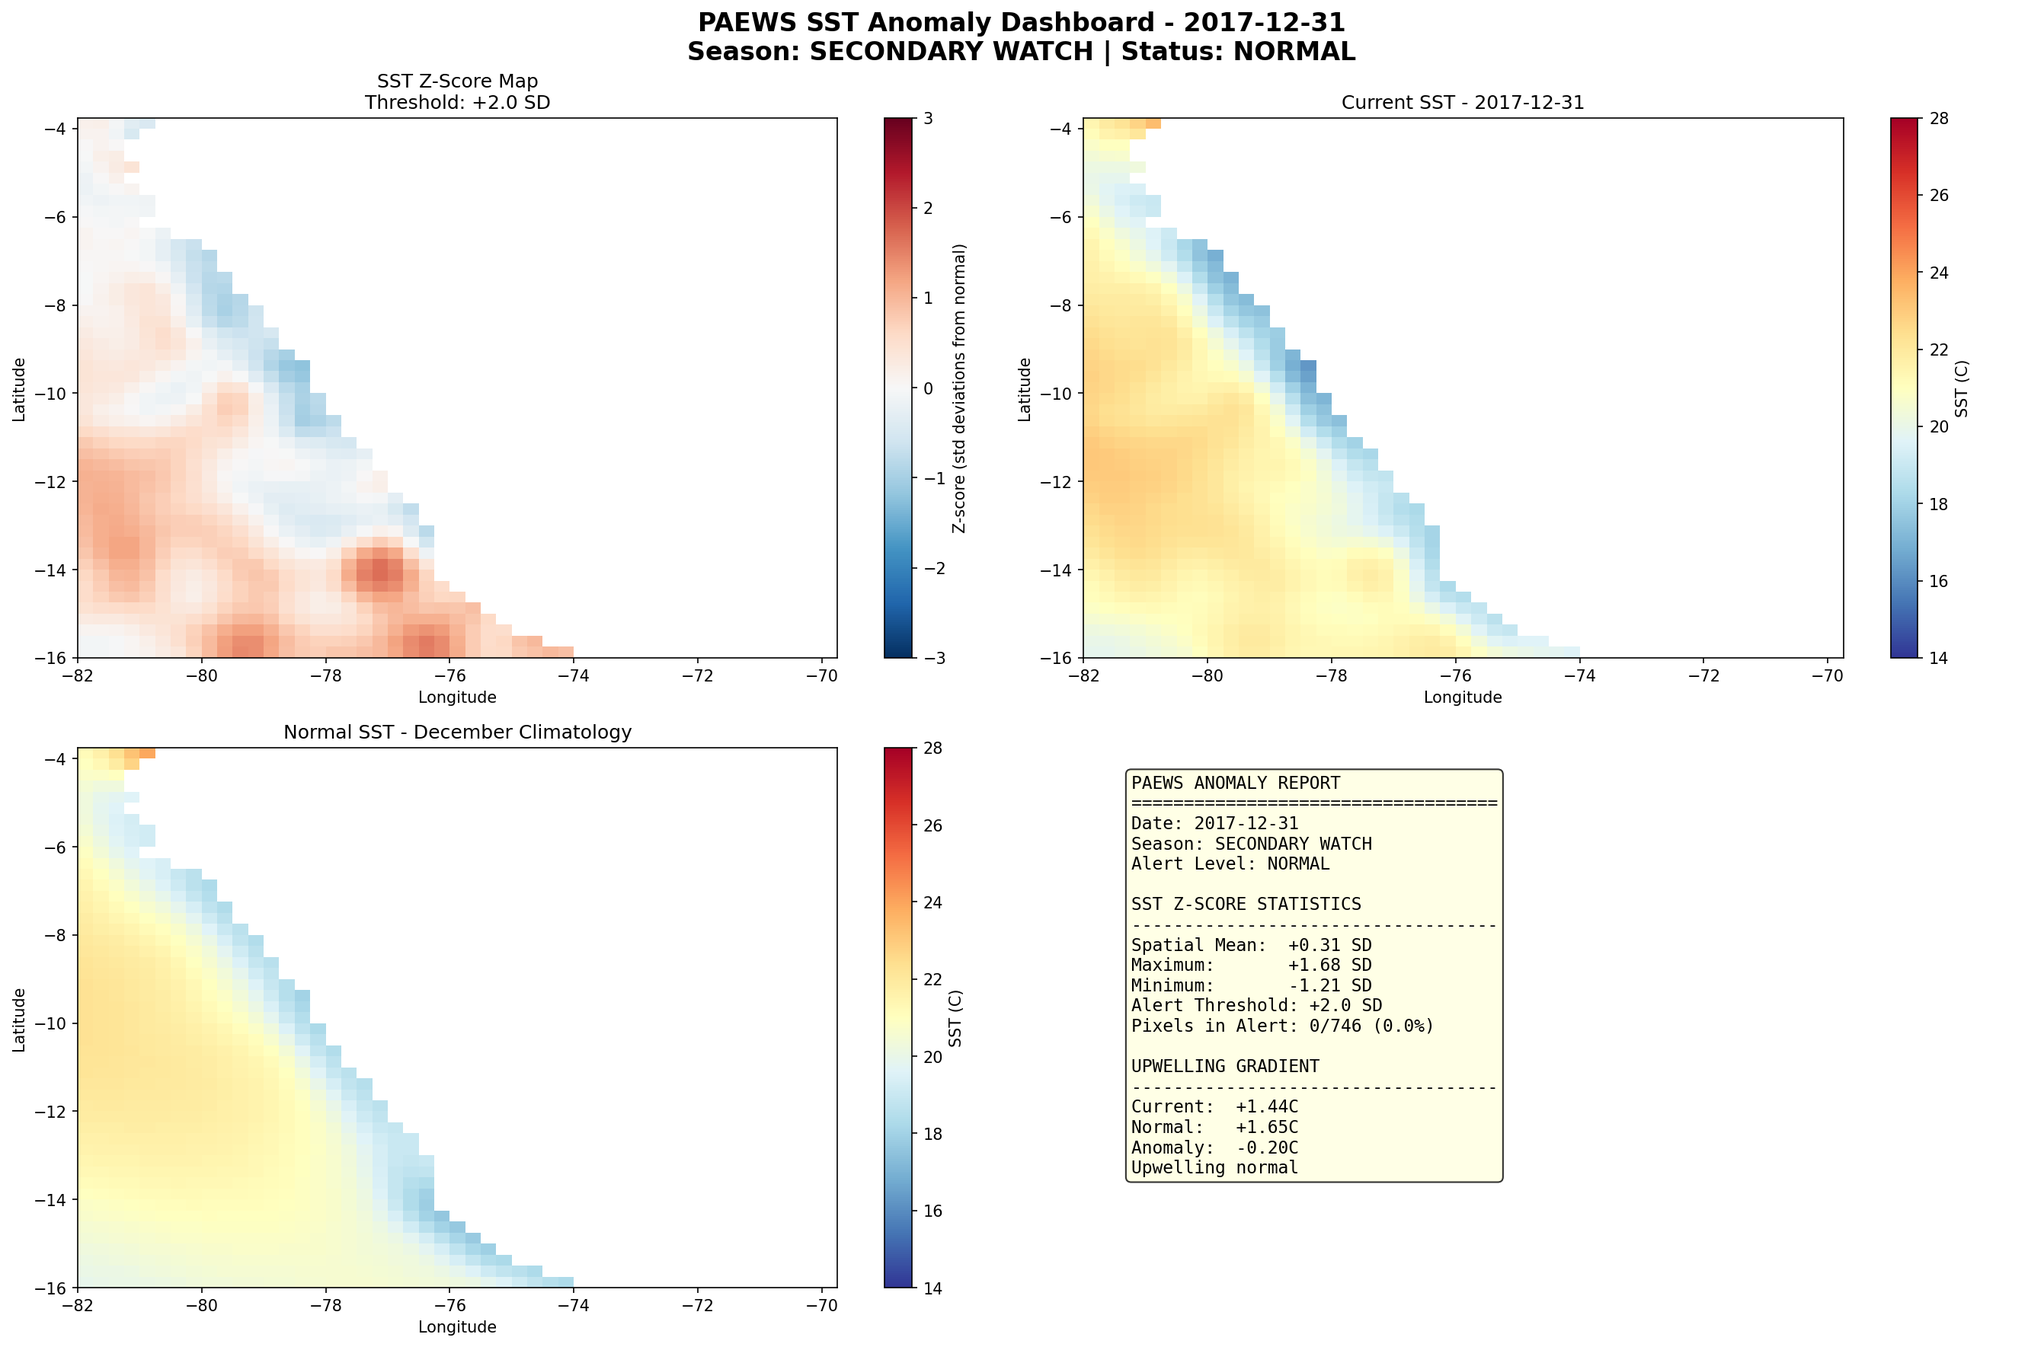
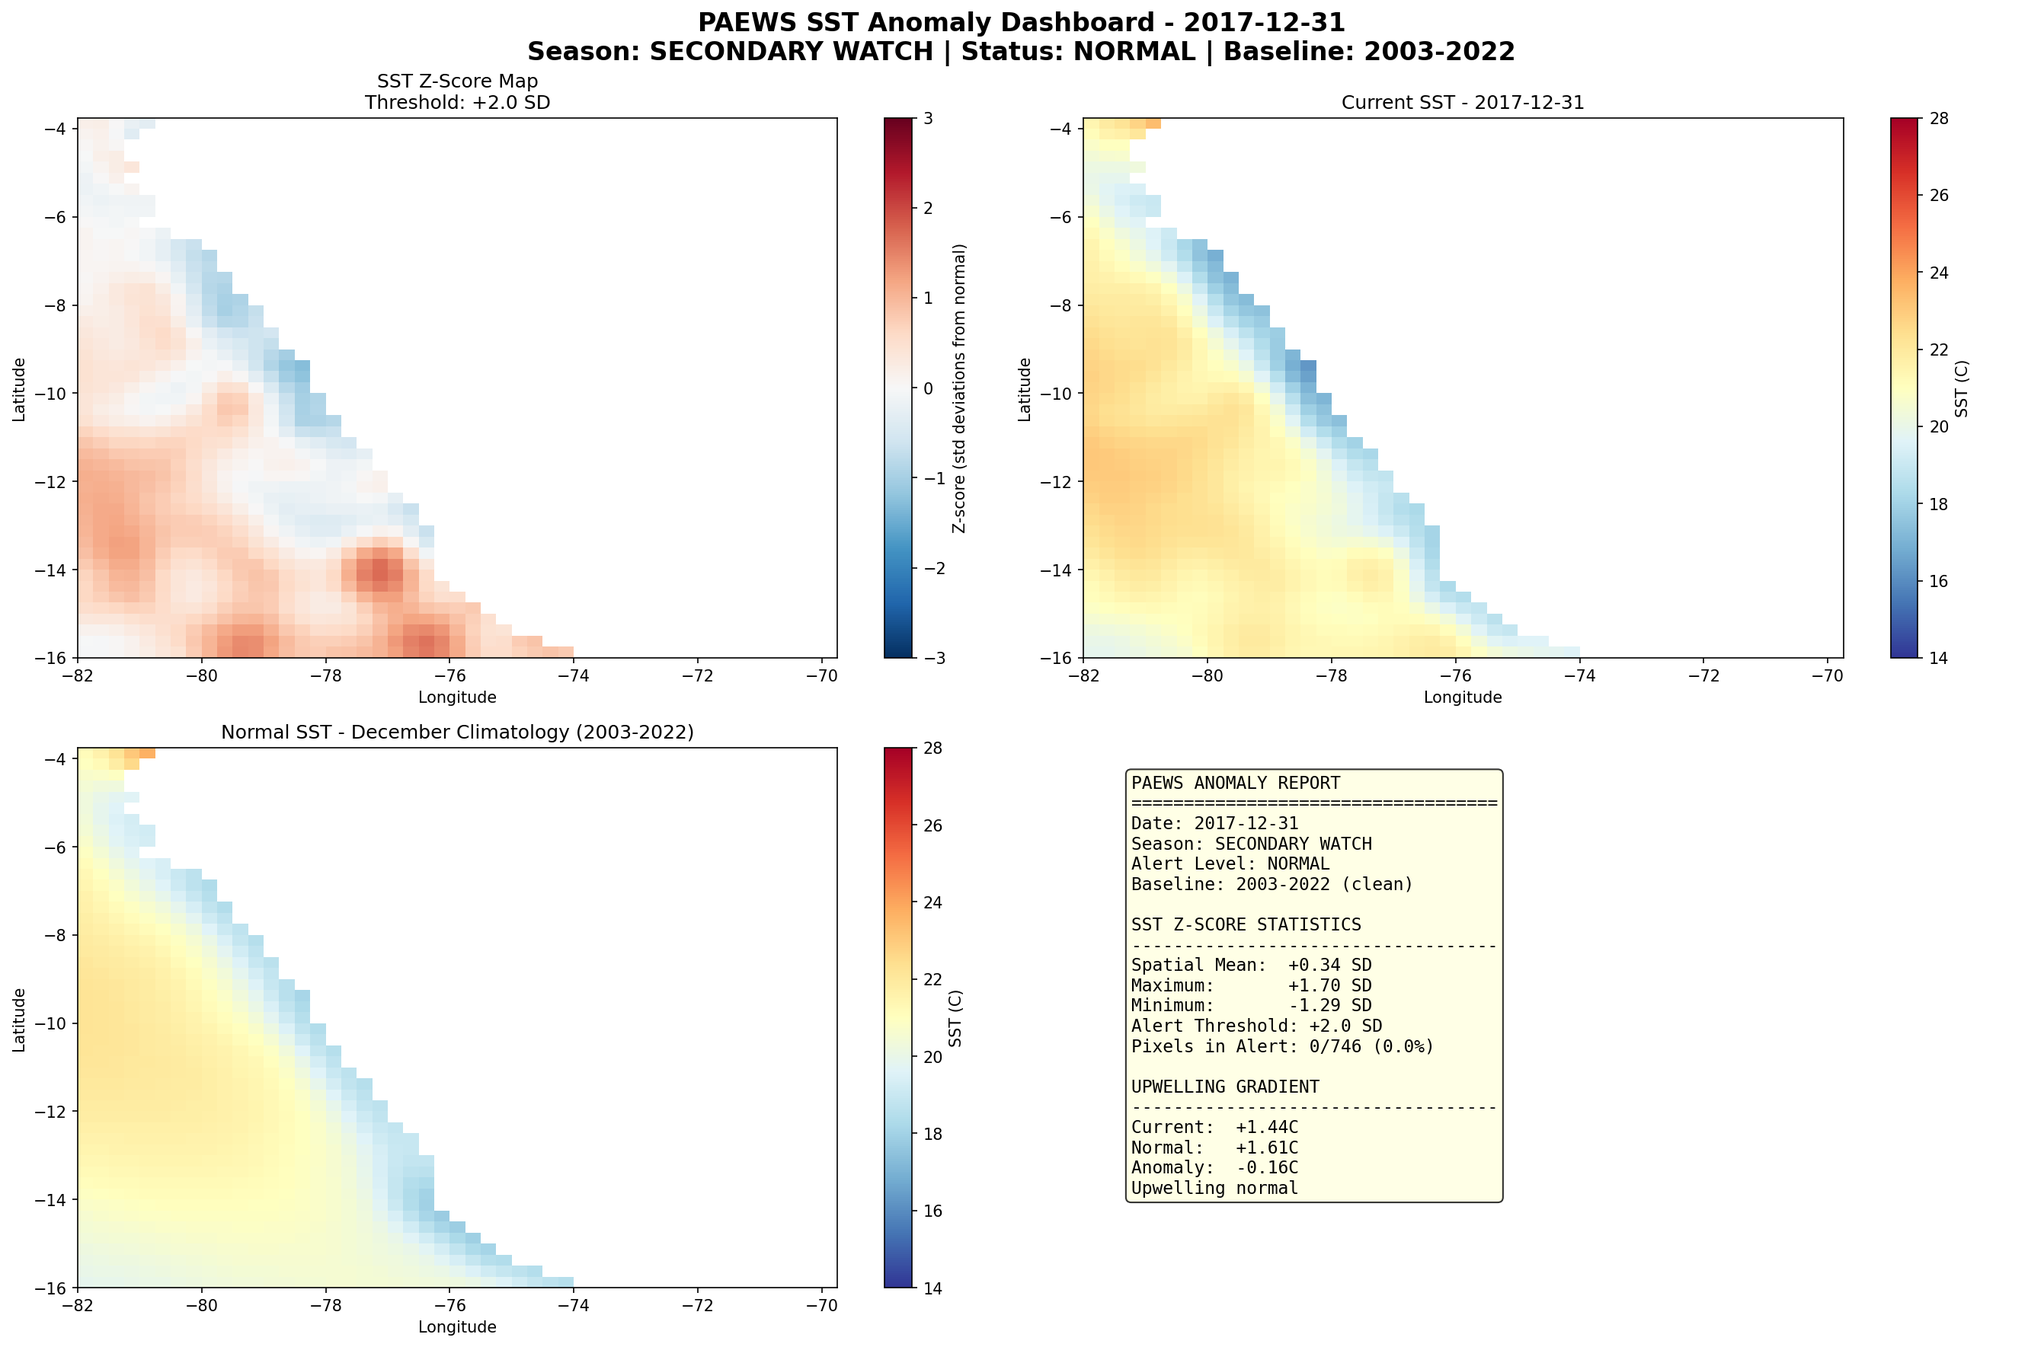
Fix baseline contamination: 2003-2022 clean baseline excluding El Nino years

Changed region(s): [[0.5259, 0.6529, 0.7425, 0.9016], [0.2475, 0.0311, 0.7425, 0.0622], [0.1237, 0.5285, 0.3403, 0.5596]]

diff --git a/scripts/compute_climatology.py b/scripts/compute_climatology.py
@@ -1,17 +1,17 @@
 """
 PAEWS Phase 2 - Step 2: Compute SST Climatology
 =================================================
-Reads all 23 years of baseline SST data and computes monthly
+Reads 20 years (2003-2022) of baseline SST data and computes monthly
 climatological statistics: mean and standard deviation for
 each pixel for each calendar month (January through December).
 
 WHAT IS A CLIMATOLOGY?
 A climatology answers: "What does this pixel normally look like
-in February?" If we have 23 Februaries of data, we average them
+in February?" If we have 20 Februaries of data, we average them
 all to get the mean, and compute the spread (standard deviation).
 
 For example, if pixel (-12.5, -77.5) has these February averages
-across 23 years: [20.1, 19.8, 21.3, 20.5, 22.1, ...]
+across 20 years: [20.1, 19.8, 21.3, 20.5, 22.1, ...]
   Mean = 20.4 C  (what "normal February" looks like here)
   Std  = 0.8 C   (how much February typically varies)
 
@@ -19,9 +19,18 @@ Then if current February reads 23.0 C at this pixel:
   Z-score = (23.0 - 20.4) / 0.8 = +3.25
 That is 3.25 standard deviations above normal -- a strong anomaly.
 
+CLEAN BASELINE (2003-2022):
+We deliberately exclude 2023+ from the baseline to prevent
+El Nino contamination. Including event years would:
+  * Inflate the monthly mean
+  * Inflate the standard deviation
+  * Reduce anomaly magnitude (making events look less extreme)
+  * Leak future information into the reference period
+This is standard practice in operational oceanographic monitoring.
+
 WHY MONTHLY (NOT WEEKLY)?
-Weekly climatologies would be noisier because you only have 23
-samples per week. Monthly gives you ~23*30 = 690 daily values
+Weekly climatologies would be noisier because you only have 20
+samples per week. Monthly gives you ~20*30 = 600 daily values
 per month per pixel, which produces much more stable statistics.
 For our seasonal alert calendar, monthly resolution is sufficient.
 We can refine to biweekly later if needed.
@@ -61,14 +70,15 @@ DATA_BASELINE = BASE_DIR / "data" / "baseline"
 DATA_PROCESSED = BASE_DIR / "data" / "processed"
 OUTPUTS = BASE_DIR / "outputs"
 
+# CLEAN BASELINE: 2003-2022 (excludes 2023+ El Nino contamination)
 BASELINE_START_YEAR = 2003
-BASELINE_END_YEAR = 2025
+BASELINE_END_YEAR = 2022
 
 
 # ============================================================
 # STEP 1: LOAD ALL BASELINE FILES INTO ONE DATASET
 # ============================================================
-# We open all 23 yearly NetCDF files and concatenate them along
+# We open all 20 yearly NetCDF files and concatenate them along
 # the time dimension. xarray makes this easy with open_mfdataset
 # ("multi-file dataset"), but we will do it manually so you can
 # see exactly what is happening at each step.
@@ -105,7 +115,6 @@ def load_all_baseline_data():
         return None
 
     # Concatenate all years along the time axis
-    # This creates one continuous time series from 2003-01-01 to 2025-12-31
     print(f"\n  Combining {len(datasets)} files ({total_days} total days)...", flush=True)
     combined = xr.concat(datasets, dim="time")
 
@@ -134,7 +143,7 @@ def load_all_baseline_data():
 #
 # IMPORTANT: We use ddof=1 in std() for the standard deviation.
 # This gives us the "sample standard deviation" (dividing by N-1
-# instead of N). This is the correct choice when our 23 years
+# instead of N). This is the correct choice when our 20 years
 # are a SAMPLE of all possible years, not the complete population.
 # It is a small correction but it is statistically proper.
 
@@ -145,7 +154,7 @@ def compute_monthly_climatology(combined_ds):
     sst = combined_ds["sst"]
 
     # Group by calendar month and compute statistics
-    # This is the key operation -- it takes ~8400 daily maps and
+    # This is the key operation -- it takes ~7300 daily maps and
     # reduces them to 12 monthly statistics maps
     print("  Computing monthly means...", flush=True)
     monthly_mean = sst.groupby("time.month").mean(dim="time")
@@ -179,7 +188,7 @@ def compute_monthly_climatology(combined_ds):
 # ============================================================
 # We save the climatology as a single NetCDF file with three
 # variables. This file is small (~50 KB) because it only has
-# 12 time steps (months) instead of 8400 (days).
+# 12 time steps (months) instead of 7300 (days).
 #
 # This is the file that the anomaly detector will load to
 # compare current conditions against.
@@ -201,6 +210,7 @@ def save_climatology(monthly_mean, monthly_std, monthly_count):
             "title": "PAEWS SST Monthly Climatology",
             "description": "Monthly mean and standard deviation of SST from NOAA OISST",
             "baseline_period": f"{BASELINE_START_YEAR}-{BASELINE_END_YEAR}",
+            "baseline_note": "Clean baseline excluding 2023+ El Nino event years",
             "source": "ncdcOisst21Agg_LonPM180 via ERDDAP",
             "created_by": "PAEWS compute_climatology.py",
         }
@@ -242,7 +252,7 @@ def plot_climatology(clim_ds):
     fig, axes = plt.subplots(3, 4, figsize=(20, 15))
     fig.suptitle(
         f"PAEWS SST Monthly Climatology ({BASELINE_START_YEAR}-{BASELINE_END_YEAR})\n"
-        f"NOAA OISST - Peru Coast",
+        f"NOAA OISST - Peru Coast (clean baseline, excludes 2023+ El Nino)",
         fontsize=16, fontweight="bold"
     )
 
@@ -278,8 +288,6 @@ def plot_climatology(clim_ds):
 # ============================================================
 # STEP 5: COMPUTE AND PLOT THE COASTAL-OFFSHORE SST GRADIENT
 # ============================================================
-# This is the spatial analysis that leverages your GIS skills.
-#
 # Upwelling strength shows up as a DIFFERENCE between cold
 # nearshore water and warm offshore water. We compute this
 # gradient for each month.
@@ -291,10 +299,6 @@ def plot_climatology(clim_ds):
 # A strong gradient (e.g., offshore 4-6C warmer than nearshore)
 # means upwelling is active. When the gradient weakens toward
 # zero, upwelling is failing -- this is an anomaly signal.
-#
-# In Phase 2 anomaly detection, we will compute this gradient
-# for current data and compare it against the climatological
-# gradient. For now we just compute and visualize the baseline.
 
 def compute_gradient_climatology(clim_ds):
     """Compute the coastal-offshore SST gradient for each month."""
@@ -303,14 +307,11 @@ def compute_gradient_climatology(clim_ds):
     sst_mean = clim_ds["sst_mean"]
 
     # Define nearshore and offshore zones
-    # Nearshore: within ~50km of coast (roughly lon > -78 for central Peru)
-    # Offshore: 100-200km from coast (roughly lon < -80)
     nearshore = sst_mean.sel(longitude=slice(-78, -70)).mean(dim=["latitude", "longitude"])
     offshore = sst_mean.sel(longitude=slice(-82, -80)).mean(dim=["latitude", "longitude"])
 
     # Gradient = offshore minus nearshore
     # Positive means offshore is warmer (normal upwelling)
-    # Near zero means upwelling has collapsed
     gradient = offshore - nearshore
 
     month_names = [
@@ -377,7 +378,7 @@ def compute_gradient_climatology(clim_ds):
 if __name__ == "__main__":
     print("=" * 55, flush=True)
     print("PAEWS Climatology Calculator", flush=True)
-    print(f"Baseline: {BASELINE_START_YEAR} to {BASELINE_END_YEAR}", flush=True)
+    print(f"Baseline: {BASELINE_START_YEAR} to {BASELINE_END_YEAR} (clean, excludes El Nino)", flush=True)
     print("=" * 55, flush=True)
 
     # Step 1: Load all baseline data

diff --git a/scripts/baseline_builder.py b/scripts/baseline_builder.py
@@ -1,7 +1,7 @@
 """
 PAEWS Phase 2 - Step 1: SST Baseline Builder
 =============================================
-Downloads 22 years (2003-2025) of daily SST data from NOAA OISST,
+Downloads 20 years (2003-2022) of daily SST data from NOAA OISST,
 one year at a time, and saves each year as a separate NetCDF file.
 
 WHY WE NEED THIS:
@@ -13,21 +13,37 @@ of February data to compute the average and standard deviation.
 This is called a "climatological baseline" -- the historical
 reference that all future measurements are compared against.
 
+BASELINE PERIOD RATIONALE (2003-2022):
+We exclude 2023+ from the baseline to prevent El Nino contamination.
+Including event years in the baseline inflates the mean and std,
+which dampens anomaly magnitude and makes events look less extreme.
+This is a standard practice in operational climatology -- the baseline
+must be a "clean" reference period representing normal conditions.
+
+2003-2022 gives us 20 years, which is robust for ocean monitoring
+statistics (Hobday et al. 2016). The WMO recommends 30 years for
+climate normals, but 20 is standard for satellite-era ocean products
+where sensor records are shorter.
+
 WHY YEAR BY YEAR:
-The full 22-year daily dataset is too large to download in one
+The full 20-year daily dataset is too large to download in one
 request -- the ERDDAP server would time out. So we break it into
 annual chunks. Each year of daily SST for our Peru box is about
 300-400 KB (small because OISST is 0.25 degree resolution).
 
-IMPORTANT: This script will take 10-20 minutes to run because
-it makes 23 separate HTTP requests with pauses between them
+IMPORTANT: This script will take 10-15 minutes to run because
+it makes 20 separate HTTP requests with pauses between them
 to be polite to the NOAA server. Do not interrupt it.
 
-After this finishes, you will have 23 files:
+After this finishes, you will have 20 files:
   data/baseline/sst_2003.nc
   data/baseline/sst_2004.nc
   ...
-  data/baseline/sst_2025.nc
+  data/baseline/sst_2022.nc
+
+Note: If you previously downloaded 2023-2025 files, they will
+remain on disk but will NOT be used by compute_climatology.py.
+You can keep them for backtesting purposes.
 
 Next step: compute_climatology.py will read all these files
 and compute monthly means and standard deviations.
@@ -62,19 +78,16 @@ SST_SERVER = "https://coastwatch.pfeg.noaa.gov"
 SST_DATASET = "ncdcOisst21Agg_LonPM180"
 SST_VARIABLE = "sst"
 
-# Baseline period: 2003 to 2025
+# Baseline period: 2003 to 2022 (CLEAN -- excludes 2023+ El Nino)
 # We start at 2003 to match MODIS Aqua chlorophyll availability.
-# This gives us 23 years of data -- more than enough for robust
-# climatological statistics. The WMO recommends 30 years for
-# climate normals, but for ocean monitoring 20+ is standard
-# practice (Hobday et al. 2016 used ~30 years where available).
+# We end at 2022 to exclude the 2023 El Nino event and its
+# aftermath from the baseline. This prevents future information
+# leakage and keeps the reference period scientifically clean.
+# 20 years is robust for satellite-era ocean monitoring statistics.
 BASELINE_START_YEAR = 2003
-BASELINE_END_YEAR = 2025
+BASELINE_END_YEAR = 2022
 
 # Pause between downloads (seconds) -- be polite to the server.
-# ERDDAP servers are free public resources. Hammering them with
-# rapid requests can get your IP temporarily blocked. A 3-second
-# pause between annual downloads is courteous and safe.
 PAUSE_BETWEEN_DOWNLOADS = 3
 
 
@@ -130,7 +143,6 @@ def download_sst_year(year, server_max_date=None):
 
     # Skip if already downloaded (allows resuming interrupted runs)
     if outfile.exists():
-        # Verify the file is valid by trying to open it
         try:
             ds = xr.open_dataset(outfile)
             n_days = ds.dims.get("time", ds.sizes.get("time", 0))
@@ -141,7 +153,6 @@ def download_sst_year(year, server_max_date=None):
             print(f"  {year}: Existing file is corrupted - re-downloading", flush=True)
 
     # Build ERDDAP URL
-    # OISST uses T12:00:00Z timestamps (noon UTC)
     url = (
         f"{SST_SERVER}/erddap/griddap/{SST_DATASET}.nc"
         f"?{SST_VARIABLE}[({start_date}T12:00:00Z):1:({stop_date}T12:00:00Z)]"
@@ -162,7 +173,6 @@ def download_sst_year(year, server_max_date=None):
     if r.status_code == 200:
         outfile.write_bytes(r.content)
         size_kb = len(r.content) / 1024
-        # Verify the downloaded file
         try:
             ds = xr.open_dataset(outfile)
             n_days = ds.dims.get("time", ds.sizes.get("time", 0))
@@ -188,13 +198,9 @@ if __name__ == "__main__":
     print(f"Dataset: {SST_DATASET}", flush=True)
     print("=" * 55, flush=True)
 
-    # Create output directory
     DATA_BASELINE.mkdir(parents=True, exist_ok=True)
-
-    # Check server availability
     t_min, t_max = get_sst_time_range()
 
-    # Track results
     years = list(range(BASELINE_START_YEAR, BASELINE_END_YEAR + 1))
     total = len(years)
     success = 0
@@ -210,11 +216,9 @@ if __name__ == "__main__":
         else:
             failed.append(year)
 
-        # Pause between downloads (skip after last one)
         if i < total - 1:
             time.sleep(PAUSE_BETWEEN_DOWNLOADS)
 
-    # Summary
     print("\n" + "=" * 55, flush=True)
     print("BASELINE DOWNLOAD SUMMARY", flush=True)
     print(f"  Successful: {success}/{total} years", flush=True)
@@ -224,7 +228,6 @@ if __name__ == "__main__":
     else:
         print("  All years downloaded successfully!", flush=True)
 
-    # List what we have
     print(f"\nFiles in {DATA_BASELINE}:", flush=True)
     for f in sorted(DATA_BASELINE.glob("sst_*.nc")):
         size_kb = f.stat().st_size / 1024

diff --git a/scripts/anomaly_detector.py b/scripts/anomaly_detector.py
@@ -20,6 +20,11 @@ BAD for anchovies (suppressed upwelling, reduced nutrients).
 NEGATIVE Z-scores mean COLDER than normal (enhanced upwelling,
 usually good for productivity).
 
+BASELINE REFERENCE:
+Z-scores are computed against a CLEAN 2003-2022 baseline that
+excludes the 2023 El Nino and subsequent years. This prevents
+event contamination from dampening anomaly signals.
+
 ALERT THRESHOLDS (from our seasonal calendar):
   Feb-Mar (MAXIMUM ALERT):   flag at Z >= +1.5
   Apr-Jul (ACTIVE SEASON):   flag at Z >= +2.0
@@ -31,9 +36,8 @@ This script can run on:
   2. Any historical year (for backtesting - e.g., 2023)
 
 OUTPUT:
-  outputs/sst_anomaly_map.png      - spatial Z-score map
-  outputs/sst_anomaly_summary.png  - dashboard with map + gradient + stats
-  data/processed/sst_anomaly.nc    - Z-score data as NetCDF
+  outputs/sst_anomaly_dashboard.png      - dashboard with map + gradient + stats
+  data/processed/sst_anomaly.nc          - Z-score data as NetCDF
 
 Usage (current data):
   & C:/Users/josep/miniconda3/Scripts/conda.exe run -n geosentinel python c:/Users/josep/Documents/paews/scripts/anomaly_detector.py
@@ -112,7 +116,8 @@ def load_climatology():
         print("  Run compute_climatology.py first.", flush=True)
         return None
     clim = xr.open_dataset(clim_path)
-    print(f"  Loaded climatology: {clim_path.name}", flush=True)
+    baseline = clim.attrs.get("baseline_period", "unknown")
+    print(f"  Loaded climatology: {clim_path.name} (baseline: {baseline})", flush=True)
     return clim
 
 
@@ -173,7 +178,6 @@ def compute_zscore(sst_ds, clim_ds):
     months = sst.time.dt.month
 
     # Look up the climatological mean and std for each time step's month
-    # xarray's .sel() with the month coordinate does this elegantly
     clim_mean = clim_ds["sst_mean"].sel(month=months)
     clim_std = clim_ds["sst_std"].sel(month=months)
 
@@ -310,7 +314,7 @@ def plot_anomaly_dashboard(zscore_ds, sst_ds, clim_ds, stats, gradient_info, out
     fig = plt.figure(figsize=(18, 12))
     fig.suptitle(
         f"PAEWS SST Anomaly Dashboard - {stats['date']}\n"
-        f"Season: {stats['season']} | Status: {stats['alert_level']}",
+        f"Season: {stats['season']} | Status: {stats['alert_level']} | Baseline: 2003-2022",
         fontsize=16, fontweight="bold"
     )
 
@@ -348,7 +352,7 @@ def plot_anomaly_dashboard(zscore_ds, sst_ds, clim_ds, stats, gradient_info, out
     )
     month_names = ["", "January", "February", "March", "April", "May", "June",
                    "July", "August", "September", "October", "November", "December"]
-    ax3.set_title(f"Normal SST - {month_names[latest_month]} Climatology")
+    ax3.set_title(f"Normal SST - {month_names[latest_month]} Climatology (2003-2022)")
     ax3.set_xlabel("Longitude")
     ax3.set_ylabel("Latitude")
 
@@ -363,6 +367,7 @@ def plot_anomaly_dashboard(zscore_ds, sst_ds, clim_ds, stats, gradient_info, out
         f"Date: {stats['date']}",
         f"Season: {stats['season']}",
         f"Alert Level: {stats['alert_level']}",
+        f"Baseline: 2003-2022 (clean)",
         f"",
         f"SST Z-SCORE STATISTICS",
         f"{'-'*35}",
@@ -410,7 +415,8 @@ def save_zscore(zscore_ds, stats, output_suffix=""):
         {"sst_zscore": zscore_ds},
         attrs={
             "title": "PAEWS SST Z-Scores",
-            "description": "SST anomalies as Z-scores relative to 2003-2025 climatology",
+            "description": "SST anomalies as Z-scores relative to 2003-2022 climatology",
+            "baseline_note": "Clean baseline excluding 2023+ El Nino event years",
             "alert_level": stats["alert_level"],
             "analysis_date": stats["date"],
             "created_by": "PAEWS anomaly_detector.py",
@@ -452,7 +458,7 @@ def plot_backtest_timeseries(zscore_ds, sst_ds, year):
 
     fig.suptitle(
         f"PAEWS Backtest: {year} SST Anomaly Time Series\n"
-        f"Daily Spatial Mean Z-Score vs Alert Threshold",
+        f"Daily Spatial Mean Z-Score vs Alert Threshold (baseline: 2003-2022)",
         fontsize=14, fontweight="bold"
     )
 
@@ -520,6 +526,7 @@ if __name__ == "__main__":
         print(f"PAEWS Anomaly Detector - BACKTEST MODE ({backtest_year})", flush=True)
     else:
         print("PAEWS Anomaly Detector - CURRENT CONDITIONS", flush=True)
+    print("Baseline: 2003-2022 (clean, excludes El Nino)", flush=True)
     print("=" * 55, flush=True)
 
     # Step 1: Load climatology
